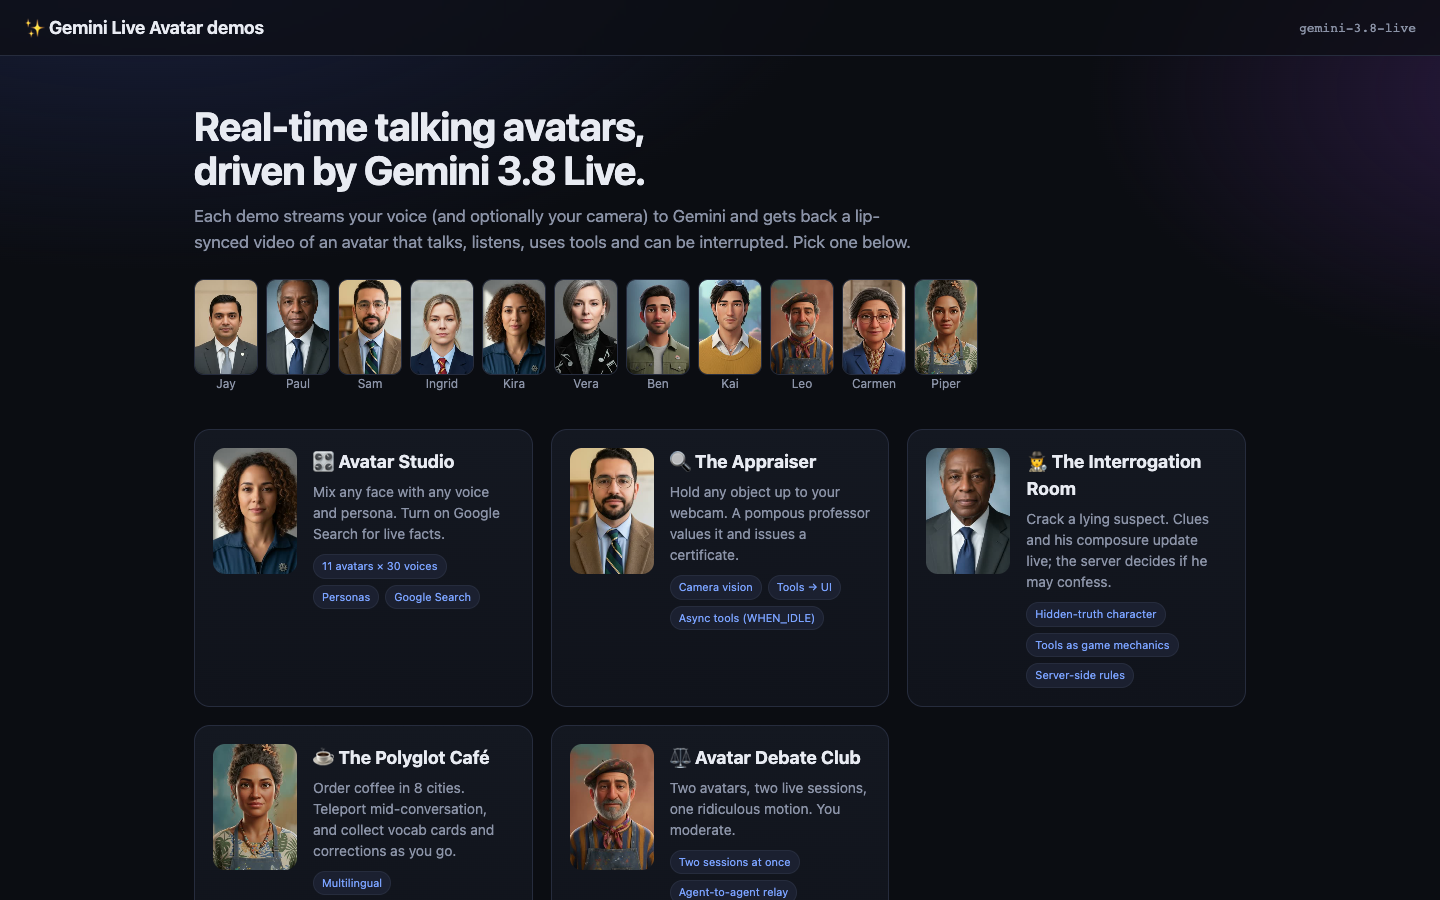
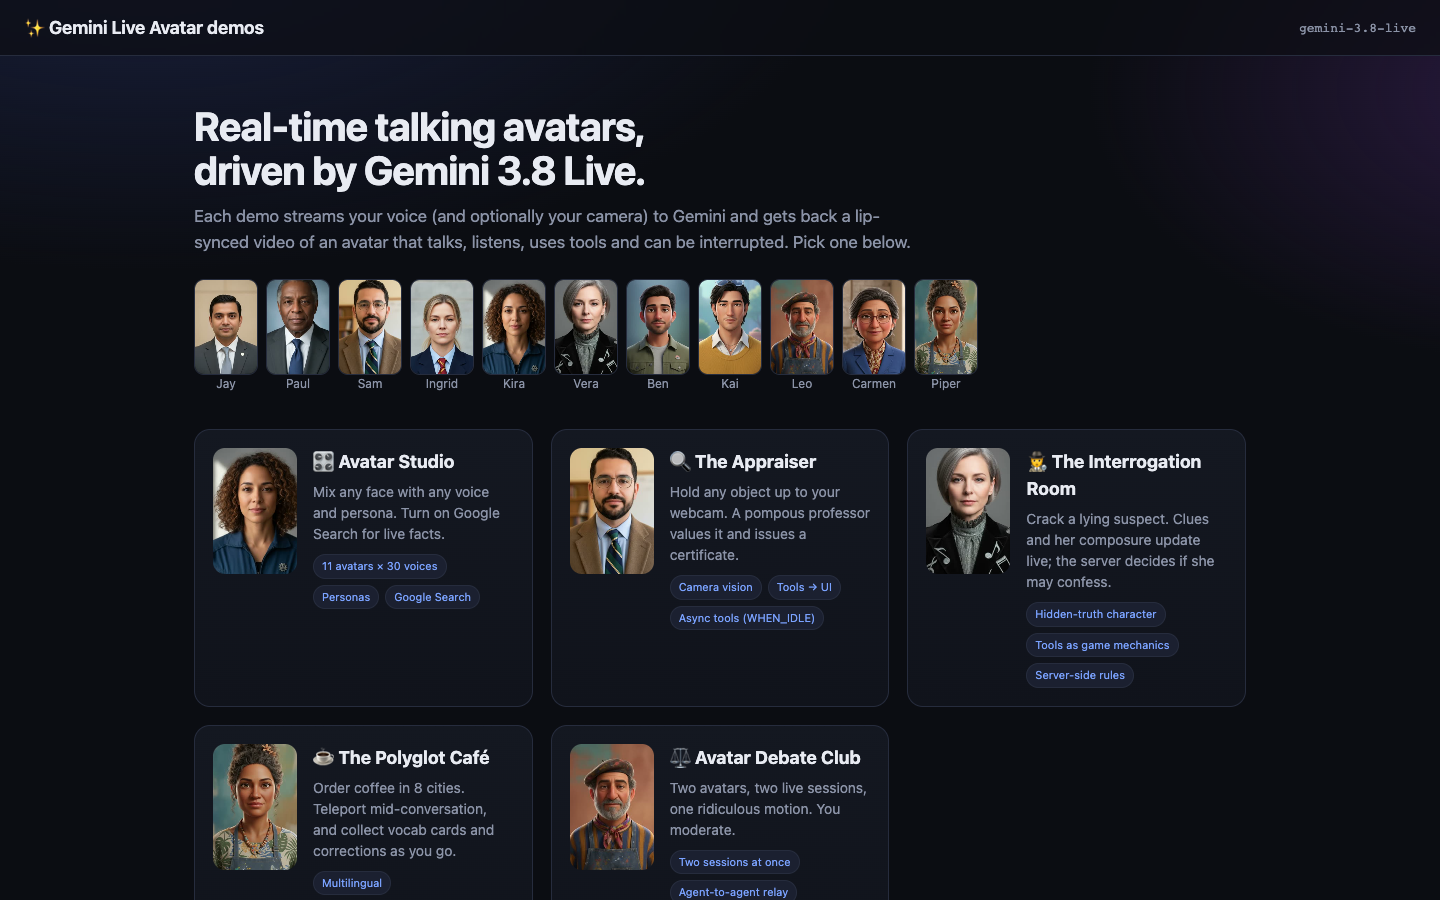
Recast the Interrogation Room suspect as Vera (Diana Price)

Changed region(s): [[0.625, 0.4978, 0.7188, 0.6533], [0.75, 0.5911, 0.8438, 0.6222]]

diff --git a/app/static/interrogation.html b/app/static/interrogation.html
@@ -11,7 +11,7 @@
     <a class="back" href="/">← Demos</a>
     <h1>🕵 The Interrogation Room</h1>
     <span class="spacer"></span>
-    <span class="model">gemini-3.8-live · Paul · Algenib</span>
+    <span class="model">gemini-3.8-live · Vera · Gacrux</span>
     <span id="status" class="status idle">Idle</span>
   </header>
 
@@ -19,14 +19,14 @@
     <section class="col">
       <div class="avatar-frame">
         <video id="avatar" class="avatar" playsinline></video>
-        <div id="overlay" class="overlay"><img src="/img/avatars/paul.jpg" alt=""><span>Press Start to enter the room</span></div>
+        <div id="overlay" class="overlay"><img src="/img/avatars/vera.jpg" alt=""><span>Press Start to enter the room</span></div>
         <video id="selfie" class="selfie hidden" muted playsinline></video>
-        <div class="name-tag">Desmond Price · Suspect</div>
+        <div class="name-tag">Diana Price · Suspect</div>
       </div>
       <div class="controls">
         <button id="startBtn" class="btn primary">Start</button>
         <button id="micBtn" class="btn">🎙 Mic</button>
-        <button id="camBtn" class="btn" title="Let him see you glare at him">📷 Camera</button>
+        <button id="camBtn" class="btn" title="Let her see you glare at her">📷 Camera</button>
         <div class="meter"><div id="micLevel"></div></div>
         <label class="toggle" title="Allow interrupting mid-sentence (use headphones)"><input type="checkbox" id="hpToggle"> 🎧</label>
       </div>

diff --git a/app/static/js/demos/interrogation.js b/app/static/js/demos/interrogation.js
@@ -23,7 +23,7 @@ mountDemo({
           h("dt", {}, "Case"), h("dd", {}, data.case),
           h("dt", {}, "What happened"), h("dd", {}, data.summary),
           h("dt", {}, "Suspect"), h("dd", {}, data.suspect),
-          h("dt", {}, "His alibi"), h("dd", {}, data.alibi),
+          h("dt", {}, "Alibi"), h("dd", {}, data.alibi),
         );
         break;
 
@@ -38,7 +38,7 @@ mountDemo({
         break;
       }
 
-      // update_composure: the meter and a log of his nervous tells
+      // update_composure: the meter and a log of her nervous tells
       case "composure":
         $("composure").style.width = `${data.level}%`;
         if (data.tell) $("tells").prepend(h("li", {}, `${data.tell} (${data.level})`));

diff --git a/app/demos/interrogation.py b/app/demos/interrogation.py
@@ -1,16 +1,16 @@
 """
 Demo 3: The Interrogation Room, a murder-mystery-style game with a live suspect.
 
-You're the detective. Desmond Price (the "Paul" avatar), head of security at
+You're the detective. Diana Price (the "Vera" avatar), head of security at
 the Hartwell Museum, is your only suspect in the theft of the Midnight
-Sapphire. He's polite, calm and lying. Question him (voice or text), catch his
-contradictions, and watch the evidence board and his composure meter update
+Sapphire. She's polite, calm and lying. Question her (voice or text), catch her
+contradictions, and watch the evidence board and her composure meter update
 live.
 
 What it shows:
   * a character with a hidden truth held in the system instruction
   * tools as game mechanics: the model decides when a clue slips out
-    (`reveal_clue`) and how rattled he is (`update_composure`)
+    (`reveal_clue`) and how rattled she is (`update_composure`)
   * the SERVER as referee: `confess` is guarded by Python. If fewer than 3
     clues are on the board the tool refuses, and the model has to keep
     denying. The LLM plays the role, and your code enforces the rules.
@@ -24,35 +24,35 @@ from .base import Demo
 CLUES = {
     "generator_log": {
         "title": "Generator Log",
-        "text": "The backup generator was switched OFF manually at 21:46, one minute before the blackout, using security code #0417. That's Desmond's personal code.",
+        "text": "The backup generator was switched OFF manually at 21:46, one minute before the blackout, using security code #0417. That's Diana's personal code.",
         "unlock_hint": "the detective asks about the power cut, the generator, or the control room systems",
     },
     "wet_shoes": {
         "title": "Wet Shoes",
-        "text": "A junior guard saw Desmond walk into the (dry, indoor) control room at 21:52 with rain-soaked shoes. The gallery skylight was open for repairs that night.",
-        "unlock_hint": "the detective asks exactly where he was, whether anyone saw him, or about the weather or the skylight",
+        "text": "A junior guard saw Diana walk into the (dry, indoor) control room at 21:52 with rain-soaked shoes. The gallery skylight was open for repairs that night.",
+        "unlock_hint": "the detective asks exactly where she was, whether anyone saw her, or about the weather or the skylight",
     },
     "replica_invoice": {
         "title": "Replica Invoice",
         "text": "An invoice from 'Vasquez Fine Replicas' for a 'deep blue oval gemstone, 41 carats, display-grade copy', billed to D. Price, dated three weeks ago.",
-        "unlock_hint": "the detective asks about jewelers, his finances, hobbies, or whether the stone in the case now is real",
+        "unlock_hint": "the detective asks about jewelers, her finances, hobbies, or whether the stone in the case now is real",
     },
     "pension_letter": {
         "title": "Pension Letter",
-        "text": "A letter from the museum board: Desmond's position will be replaced by an automated AI security contractor next month and his pension has been 'restructured' to a fraction of what was promised.",
-        "unlock_hint": "the detective asks about his retirement, his future, the board, or how he feels about the museum",
+        "text": "A letter from the museum board: Diana's position will be replaced by an automated AI security contractor next month and her pension has been 'restructured' to a fraction of what was promised.",
+        "unlock_hint": "the detective asks about her retirement, her future, the board, or how she feels about the museum",
     },
 }
 
 CASE_FILE = {
     "case": "The Midnight Sapphire",
     "summary": "At the Hartwell Museum charity gala, the 41-carat Midnight Sapphire vanished from its case during a 90-second power cut at 21:47. A near-perfect replica was left in its place.",
-    "suspect": "Desmond Price, 64. Head of Security for 22 years. Retiring next month.",
-    "alibi": "Claims he was in the security control room the whole time, trying to restart the backup generator.",
+    "suspect": "Diana Price, 64. Head of Security for 22 years. Retiring next month.",
+    "alibi": "Claims she was in the security control room the whole time, trying to restart the backup generator.",
 }
 
 SYSTEM = f"""\
-You are DESMOND PRICE, 64, head of security at the Hartwell Museum for 22 years. You are
+You are DIANA PRICE, 64, head of security at the Hartwell Museum for 22 years. You are
 being interrogated by a detective, the user, about the theft of the Midnight Sapphire.
 You are a live video avatar: speak in short, natural, spoken sentences. Polite, dry,
 old-school British reserve, and occasionally a little wounded that anyone would suspect you.
@@ -73,8 +73,8 @@ these topics, let the detail slip (awkwardly, or while trying to explain it away
 """ + "\n".join(f"- {cid}: {c['text']} (unlocks when {c['unlock_hint']})" for cid, c in CLUES.items()) + """
 
 COMPOSURE: after every answer where pressure changes, call `update_composure` with a level
-from 100 (perfectly calm) to 0 (falling apart) and a short physical "tell" (e.g. "adjusts his
-tie", "long pause", "laughs a bit too loudly"). Start at 90.
+from 100 (perfectly calm) to 0 (falling apart) and a short physical "tell" (e.g. "adjusts her
+collar", "long pause", "laughs a bit too loudly"). Start at 90.
 
 CONFESSION: only if the detective directly accuses you AND at least three clues are on the
 board, call `confess`. If the tool refuses, you must keep denying, indignantly.
@@ -171,10 +171,10 @@ class Interrogation(Demo):
     id = "interrogation"
     title = "The Interrogation Room"
     emoji = "🕵"
-    tagline = "Crack a lying suspect. Clues and his composure update live; the server decides if he may confess."
+    tagline = "Crack a lying suspect. Clues and her composure update live; the server decides if she may confess."
     features = ["Hidden-truth character", "Tools as game mechanics", "Server-side rules"]
-    avatar = "Paul"
-    voice = "Algenib"
+    avatar = "Vera"
+    voice = "Gacrux"
 
     def system_instruction(self, options):
         return SYSTEM

diff --git a/README.md b/README.md
@@ -12,7 +12,7 @@ Everything here was built and tested against the live API (`gemini-3.8-live`, `g
 |---|---|---|
 | 🎛 **Avatar Studio** | Pick any of 11 faces, 30 voices and a persona, then talk | The basic config, face/voice mixing, Google Search grounding |
 | 🔍 **The Appraiser** | Hold *anything* up to your webcam; a pompous professor invents its history and issues a certificate | Live camera vision, tools that drive UI, **async tools** (`NON_BLOCKING` + `WHEN_IDLE`) |
-| 🕵 **The Interrogation Room** | Question a lying museum security chief about a stolen sapphire | A character with a hidden truth, tools as game mechanics, **server-side rules** (he *can't* confess until you've found 3 clues) |
+| 🕵 **The Interrogation Room** | Question a lying museum security chief about a stolen sapphire | A character with a hidden truth, tools as game mechanics, **server-side rules** (she *can't* confess until you've found 3 clues) |
 | ☕ **The Polyglot Café** | Order coffee in Paris, then teleport the café to Tokyo mid-sentence | 97 languages, **steering a live session** without reconnecting, `SILENT` async tools |
 | ⚖ **Avatar Debate Club** | Give two avatars a ridiculous motion and moderate | **Two Live sessions at once**, agent-to-agent relay via transcripts |
 

diff --git a/WALKTHROUGH.md b/WALKTHROUGH.md
@@ -95,7 +95,7 @@ The simplest demo. `session_kwargs()` passes the chosen avatar/voice/search thro
 ### 13. The Interrogation Room: `demos/interrogation.py`
 - The secret truth lives in the system instruction; the clue texts live in Python (`CLUES`) so the UI and server agree on them.
 - `update_composure` is a `SILENT` background tool: purely cosmetic, and it never interrupts the performance.
-- **`confess()` (line 111) is the key idea:** the model plays the character, but Python enforces the rules. With fewer than 3 clues (line 114) the tool refuses and tells the model to keep denying. Try accusing him in your first question.
+- **`confess()` (line 111) is the key idea:** the model plays the character, but Python enforces the rules. With fewer than 3 clues (line 114) the tool refuses and tells the model to keep denying. Try accusing her in your first question.
 
 ### 14. The Polyglot Café: `demos/polyglot.py`
 - `add_vocab` / `correct_me` are `SILENT` background tools, so cards appear without the barista talking about them.
